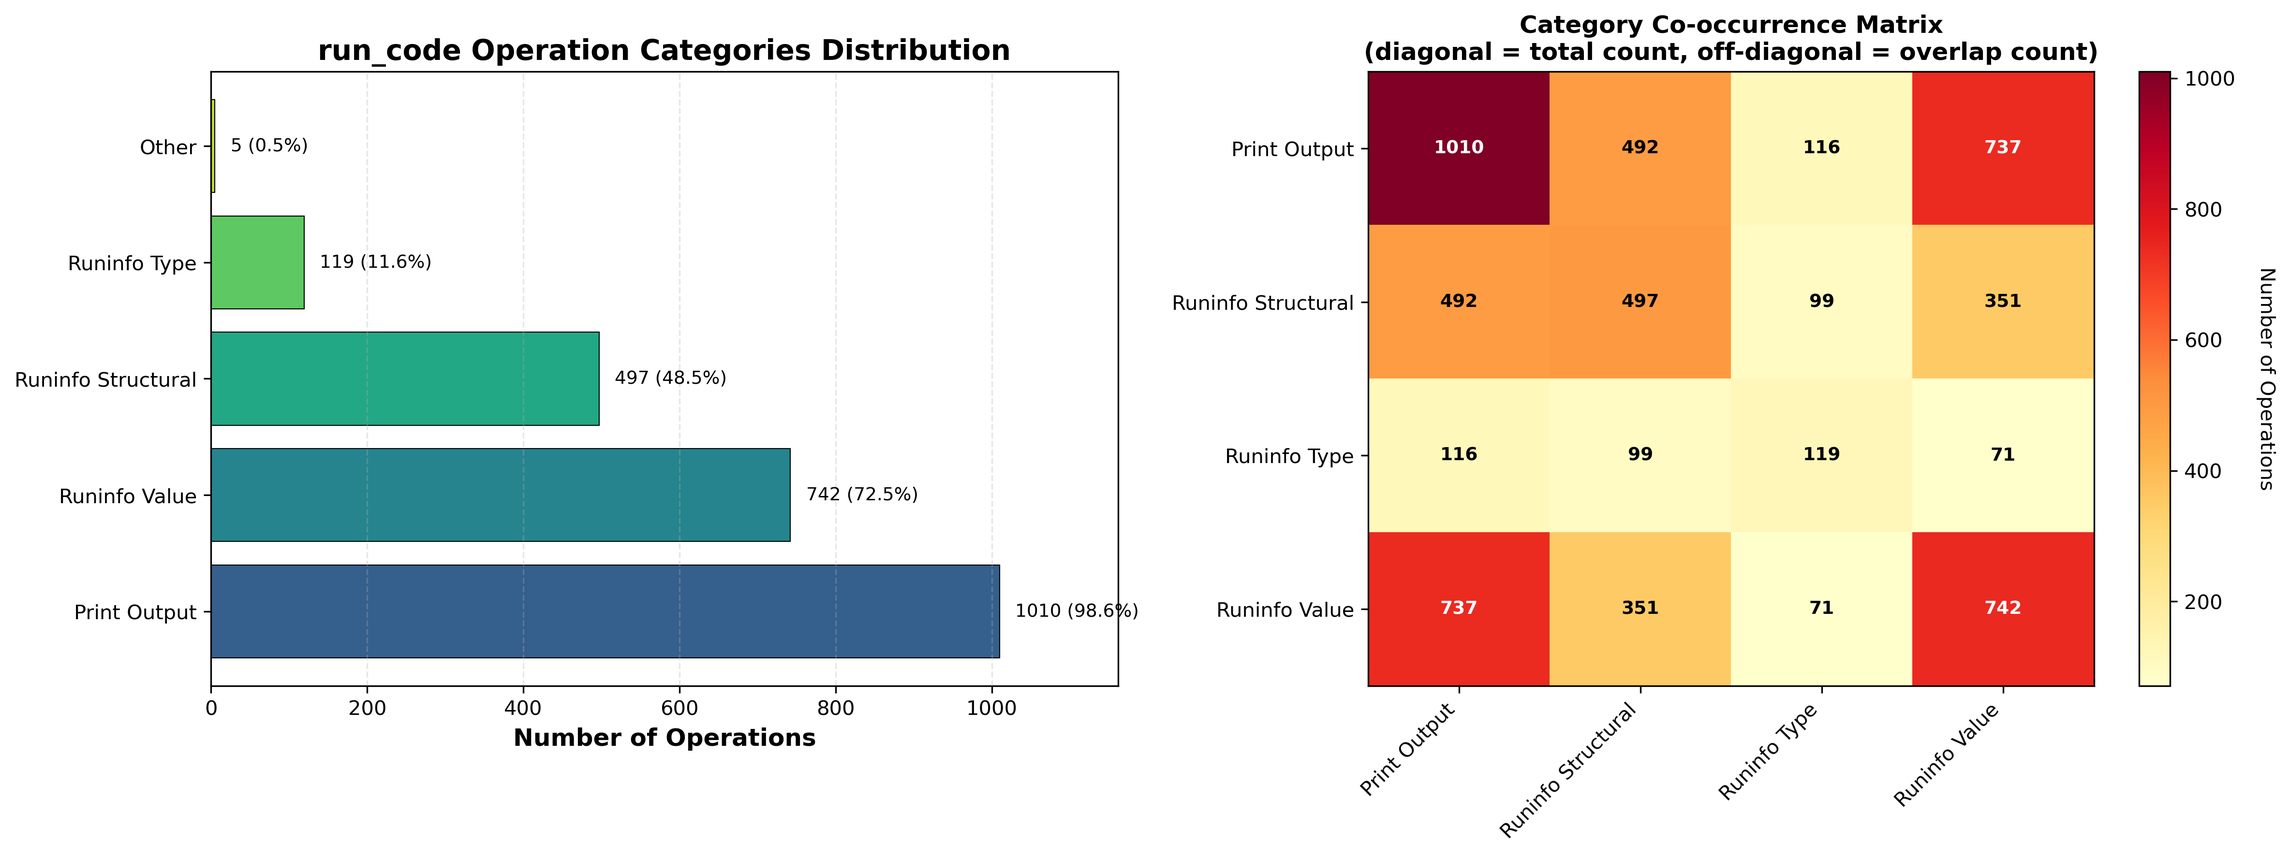
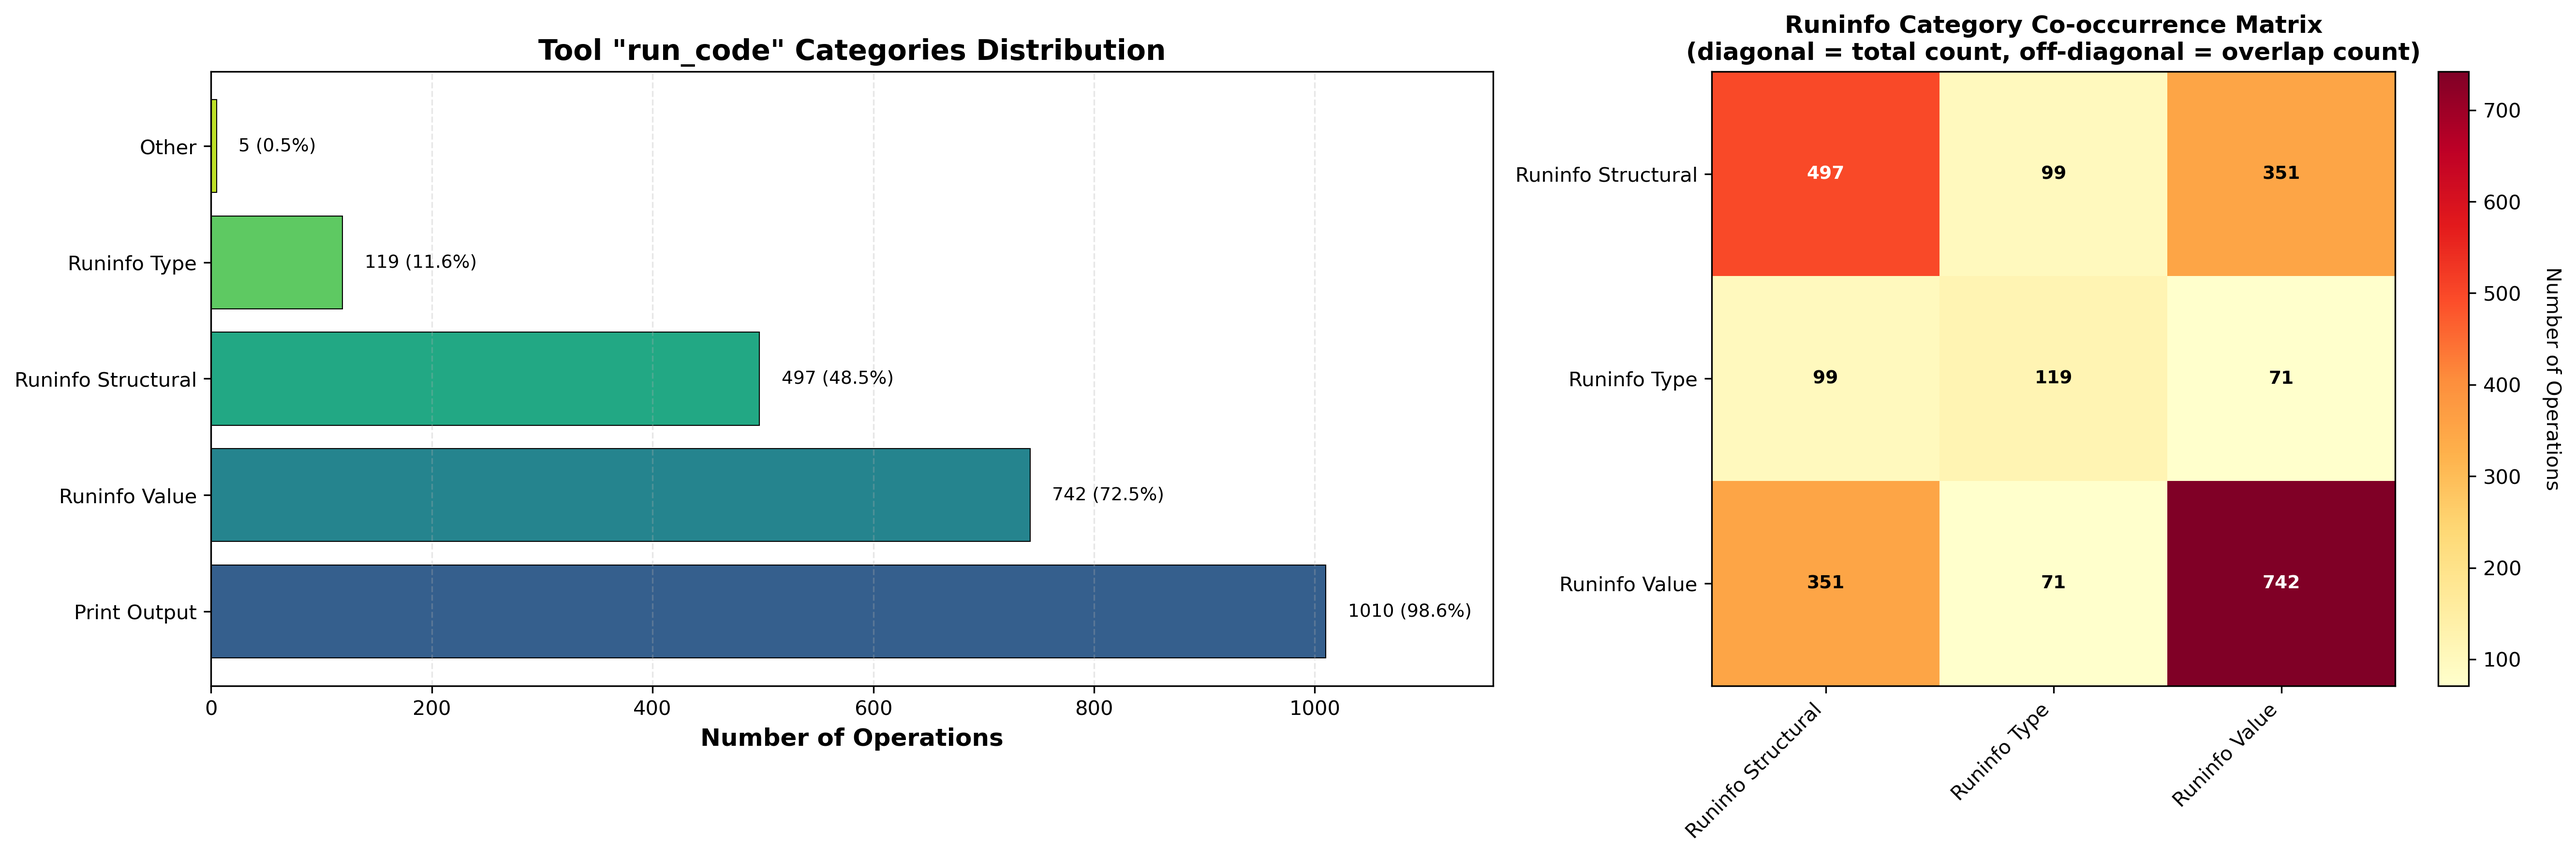
minor fix of plots

diff --git a/data_analysis/run_code_visualize.py b/data_analysis/run_code_visualize.py
@@ -44,7 +44,7 @@ def plot_category_distribution(input_dir, output_dir):
         percentages.append((count / total_ops) * 100)
     
     # Create figure with two subplots
-    fig, (ax1, ax2) = plt.subplots(1, 2, figsize=(16, 6))
+    fig, (ax1, ax2) = plt.subplots(1, 2, figsize=(18, 6), width_ratios=[0.6, 0.4])
     
     # Plot 1: Horizontal bar chart
     colors = plt.cm.viridis(np.linspace(0.3, 0.9, len(categories)))
@@ -58,7 +58,7 @@ def plot_category_distribution(input_dir, output_dir):
                 ha='left', va='center', fontsize=9)
     
     ax1.set_xlabel('Number of Operations', fontsize=12, fontweight='bold')
-    ax1.set_title('run_code Operation Categories Distribution', fontsize=14, fontweight='bold')
+    ax1.set_title('Tool "run_code" Categories Distribution', fontsize=14, fontweight='bold')
     ax1.grid(axis='x', alpha=0.3, linestyle='--')
     ax1.set_xlim(0, max(counts) * 1.15)
     
@@ -70,8 +70,8 @@ def plot_category_distribution(input_dir, output_dir):
     
     overlaps = data['overlaps']
     
-    # Remove 'other' from categories list
-    categories = [cat for cat in overlaps['all_categories'] if cat != 'other']
+    # Remove 'other' and 'print_output' from categories list
+    categories = [cat for cat in overlaps['all_categories'] if cat != 'other' and cat != 'print_output']
     n_cats = len(categories)
     
     # Build co-occurrence matrix
@@ -89,8 +89,8 @@ def plot_category_distribution(input_dir, output_dir):
     # Off-diagonal: co-occurrence counts
     for pair_str, count in overlaps['co_occurrence_pairs'].items():
         cat1, cat2 = pair_str.split('|')
-        # Skip pairs involving 'other' category
-        if cat1 == 'other' or cat2 == 'other':
+        # Skip pairs involving 'other' or 'print_output' categories
+        if cat1 == 'other' or cat2 == 'other' or cat1 == 'print_output' or cat2 == 'print_output':
             continue
         i = categories.index(cat1)
         j = categories.index(cat2)
@@ -116,7 +116,7 @@ def plot_category_distribution(input_dir, output_dir):
                 ax2.text(j, i, str(count), ha='center', va='center', 
                         color=color, fontsize=9, fontweight='bold')
     
-    ax2.set_title('Category Co-occurrence Matrix\n(diagonal = total count, off-diagonal = overlap count)', 
+    ax2.set_title('Runinfo Category Co-occurrence Matrix\n(diagonal = total count, off-diagonal = overlap count)', 
                   fontsize=12, fontweight='bold')
     
     # Add colorbar
